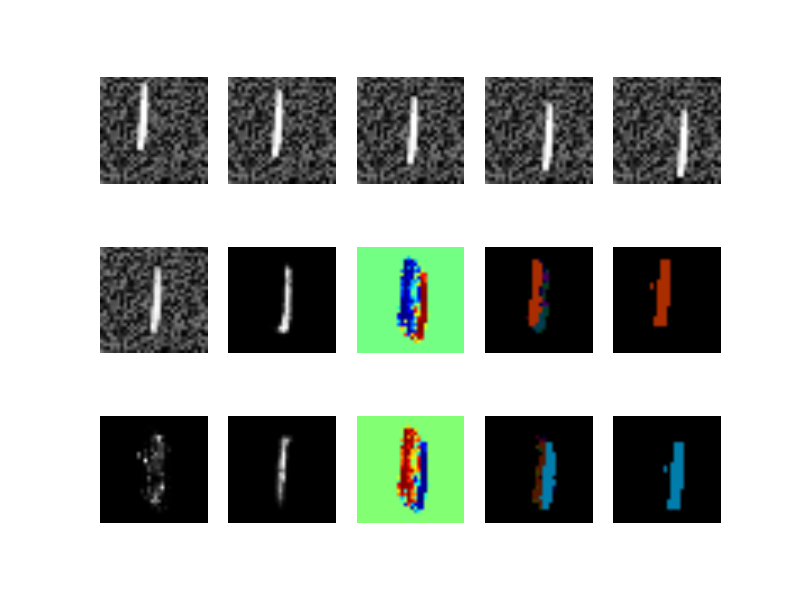
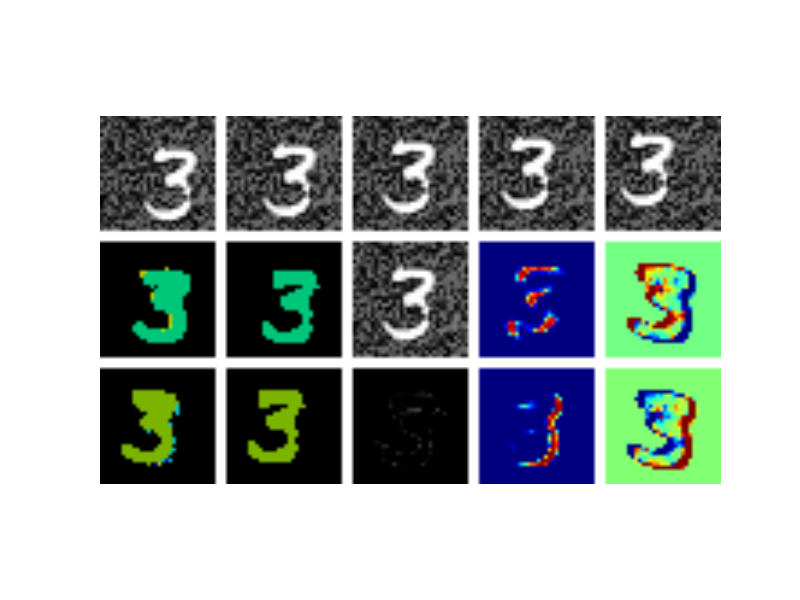
better visualization exp012-1

diff --git a/exp012-1/visualize.py b/exp012-1/visualize.py
@@ -1,0 +1,114 @@
+import numpy
+import cv2
+import matplotlib.pyplot as plt
+
+
+def visualize(im1, im2, im3, im4, im5, pred, pred_motion_f, gt_motion_f, disappear_f, attn_f, pred_motion_b, gt_motion_b, disappear_b, attn_b, m_range, m_dict, reverse_m_dict):
+    img_size = im1.size(2)
+    width, height = get_img_size(3, 5, img_size)
+    img = numpy.ones((height, width, 3))
+
+    im1 = im1[0].cpu().data.numpy().transpose(1, 2, 0).repeat(3, 2)
+    x1, y1, x2, y2 = get_img_coordinate(1, 1, img_size)
+    img[y1:y2, x1:x2, :] = im1
+
+    im2 = im2[0].cpu().data.numpy().transpose(1, 2, 0).repeat(3, 2)
+    x1, y1, x2, y2 = get_img_coordinate(1, 2, img_size)
+    img[y1:y2, x1:x2, :] = im2
+
+    im3 = im3[0].cpu().data.numpy().transpose(1, 2, 0).repeat(3, 2)
+    x1, y1, x2, y2 = get_img_coordinate(1, 3, img_size)
+    img[y1:y2, x1:x2, :] = im3
+
+    im4 = im4[0].cpu().data.numpy().transpose(1, 2, 0).repeat(3, 2)
+    x1, y1, x2, y2 = get_img_coordinate(1, 4, img_size)
+    img[y1:y2, x1:x2, :] = im4
+
+    im5 = im5[0].cpu().data.numpy().transpose(1, 2, 0).repeat(3, 2)
+    x1, y1, x2, y2 = get_img_coordinate(1, 5, img_size)
+    img[y1:y2, x1:x2, :] = im5
+
+    gt_motion = label2flow(gt_motion_f[0].cpu().data.numpy().squeeze(), m_range, reverse_m_dict)
+    x1, y1, x2, y2 = get_img_coordinate(2, 2, img_size)
+    img[y1:y2, x1:x2, :] = gt_motion
+
+    pred = pred[0].cpu().data.numpy().transpose(1, 2, 0).repeat(3, 2)
+    pred[pred > 1] = 1
+    pred[pred < 0] = 0
+    x1, y1, x2, y2 = get_img_coordinate(2, 3, img_size)
+    img[y1:y2, x1:x2, :] = pred
+
+    im_diff = numpy.abs(pred - im3)
+    x1, y1, x2, y2 = get_img_coordinate(3, 3, img_size)
+    img[y1:y2, x1:x2, :] = im_diff
+
+    disappear = disappear_f[0].cpu().data.numpy().squeeze()
+    cmap = plt.get_cmap('jet')
+    disappear = cmap(disappear)[:, :, 0:3]
+    x1, y1, x2, y2 = get_img_coordinate(2, 4, img_size)
+    img[y1:y2, x1:x2, :] = disappear
+
+    attn = attn_f[0].cpu().data.numpy().squeeze()
+    cmap = plt.get_cmap('jet')
+    attn = cmap(attn)[:, :, 0:3]
+    x1, y1, x2, y2 = get_img_coordinate(2, 5, img_size)
+    img[y1:y2, x1:x2, :] = attn
+
+    pred_motion = label2flow(pred_motion_f[0].cpu().data.numpy().squeeze(), m_range, reverse_m_dict)
+    x1, y1, x2, y2 = get_img_coordinate(2, 1, img_size)
+    img[y1:y2, x1:x2, :] = pred_motion
+
+    gt_motion = label2flow(gt_motion_b[0].cpu().data.numpy().squeeze(), m_range, reverse_m_dict)
+    x1, y1, x2, y2 = get_img_coordinate(3, 2, img_size)
+    img[y1:y2, x1:x2, :] = gt_motion
+
+    disappear = disappear_b[0].cpu().data.numpy().squeeze()
+    cmap = plt.get_cmap('jet')
+    disappear = cmap(disappear)[:, :, 0:3]
+    x1, y1, x2, y2 = get_img_coordinate(3, 4, img_size)
+    img[y1:y2, x1:x2, :] = disappear
+
+    attn = attn_b[0].cpu().data.numpy().squeeze()
+    cmap = plt.get_cmap('jet')
+    attn = cmap(attn)[:, :, 0:3]
+    x1, y1, x2, y2 = get_img_coordinate(3, 5, img_size)
+    img[y1:y2, x1:x2, :] = attn
+
+    pred_motion = label2flow(pred_motion_b[0].cpu().data.numpy().squeeze(), m_range, reverse_m_dict)
+    x1, y1, x2, y2 = get_img_coordinate(3, 1, img_size)
+    img[y1:y2, x1:x2, :] = pred_motion
+
+    plt.figure(1)
+    plt.imshow(img)
+    plt.axis('off')
+    plt.show()
+
+
+def get_img_size(n_row, n_col, img_size):
+    height = n_row * img_size + (n_row - 1) * int(img_size/10)
+    width = n_col * img_size + (n_col - 1) * int(img_size/10)
+    return width, height
+
+
+def get_img_coordinate(row, col, img_size):
+    y1 = (row - 1) * img_size + (row - 1) * int(img_size/10)
+    y2 = y1 + img_size
+    x1 = (col - 1) * img_size + (col - 1) * int(img_size/10)
+    x2 = x1 + img_size
+    return x1, y1, x2, y2
+
+
+def label2flow(motion_label, m_range, reverse_m_dict):
+    motion = numpy.zeros((motion_label.shape[0], motion_label.shape[1], 2))
+    for i in range(motion_label.shape[0]):
+        for j in range(motion_label.shape[1]):
+            motion[i, j, :] = numpy.asarray(reverse_m_dict[motion_label[i, j]])
+    mag, ang = cv2.cartToPolar(motion[..., 0], motion[..., 1])
+    hsv = numpy.zeros((motion.shape[0], motion.shape[1], 3), dtype=float)
+    hsv[..., 0] = ang * 180 / numpy.pi / 2
+    hsv[..., 1] = 255
+    hsv[..., 2] = mag * 255.0 / m_range / numpy.sqrt(2)
+    # hsv[...,2] = cv2.normalize(mag,None,0,255,cv2.NORM_MINMAX)
+    rgb = cv2.cvtColor(hsv.astype(numpy.uint8), cv2.COLOR_HSV2BGR)
+    return rgb
+

diff --git a/exp012-1/main.py b/exp012-1/main.py
@@ -1,17 +1,16 @@
 import os
 import numpy
-import cv2
 import logging
 import torch
 import torch.nn as nn
 import torch.optim as optim
 from torch.autograd import Variable
 import torch.nn.functional as F
-import matplotlib.pyplot as plt
 
 from learning_args import parse_args
 from data import generate_images, motion_dict, load_mnist
 from models import FullyConvNet, FullyConvResNet, UNet, UNetBidirection
+from visualize import visualize
 logging.basicConfig(format='[%(levelname)s %(asctime)s %(filename)s:%(lineno)s] %(message)s',
                             level=logging.INFO)
 
@@ -66,79 +65,6 @@ def train_supervised(args, model, images, m_dict, reverse_m_dict, m_kernel):
             logging.info('epoch %d, testing', epoch)
             best_test_acc = validate(args, model, images, m_dict, reverse_m_dict, m_kernel, best_test_acc)
     return model
-
-
-def visualize(im1, im2, im3, im4, im5, pred, pred_motion_f, gt_motion_f, disappear_f, attn_f, pred_motion_b, gt_motion_b, disappear_b, attn_b, m_range, m_dict, reverse_m_dict):
-    plt.figure(1)
-    plt.subplot(3,5,1)
-    plt.imshow(im1[0].cpu().data.numpy().squeeze(), cmap='gray')
-    plt.axis('off')
-    plt.subplot(3,5,2)
-    plt.imshow(im2[0].cpu().data.numpy().squeeze(), cmap='gray')
-    plt.axis('off')
-    plt.subplot(3,5,3)
-    plt.imshow(im3[0].cpu().data.numpy().squeeze(), cmap='gray')
-    plt.axis('off')
-    plt.subplot(3,5,4)
-    plt.imshow(im4[0].cpu().data.numpy().squeeze(), cmap='gray')
-    plt.axis('off')
-    plt.subplot(3,5,5)
-    plt.imshow(im5[0].cpu().data.numpy().squeeze(), cmap='gray')
-    plt.axis('off')
-    plt.subplot(3,5,6)
-    pred_im = pred[0].cpu().data.numpy().squeeze()
-    pred_im[pred_im > 1] = 1
-    pred_im[pred_im < 0] = 0
-    plt.imshow(pred_im, cmap='gray')
-    plt.axis('off')
-    plt.subplot(3,5,11)
-    im_diff = torch.abs(pred - im3)
-    plt.imshow(im_diff[0].cpu().data.numpy().squeeze(), cmap='gray')
-    plt.axis('off')
-    plt.subplot(3,5,7)
-    plt.imshow(disappear_f[0].cpu().data.numpy().squeeze(), cmap='gray')
-    plt.axis('off')
-    plt.subplot(3,5,8)
-    plt.imshow(attn_f[0].cpu().data.numpy().squeeze())
-    plt.axis('off')
-    plt.subplot(3,5,9)
-    pred_m_f = label2flow(pred_motion_f[0].cpu().data.numpy().squeeze(), m_range, reverse_m_dict)
-    plt.imshow(pred_m_f)
-    plt.axis('off')
-    plt.subplot(3,5,10)
-    gt_m_f = label2flow(gt_motion_f[0].cpu().data.numpy().squeeze(), m_range, reverse_m_dict)
-    plt.imshow(gt_m_f)
-    plt.axis('off')
-    plt.subplot(3,5,12)
-    plt.imshow(disappear_b[0].cpu().data.numpy().squeeze(), cmap='gray')
-    plt.axis('off')
-    plt.subplot(3,5,13)
-    plt.imshow(attn_b[0].cpu().data.numpy().squeeze())
-    plt.axis('off')
-    plt.subplot(3,5,14)
-    pred_m_b = label2flow(pred_motion_b[0].cpu().data.numpy().squeeze(), m_range, reverse_m_dict)
-    plt.imshow(pred_m_b)
-    plt.axis('off')
-    plt.subplot(3,5,15)
-    gt_m_b = label2flow(gt_motion_b[0].cpu().data.numpy().squeeze(), m_range, reverse_m_dict)
-    plt.imshow(gt_m_b)
-    plt.axis('off')
-    plt.show()
-
-
-def label2flow(motion_label, m_range, reverse_m_dict):
-    motion = numpy.zeros((motion_label.shape[0], motion_label.shape[1], 2))
-    for i in range(motion_label.shape[0]):
-        for j in range(motion_label.shape[1]):
-            motion[i, j, :] = numpy.asarray(reverse_m_dict[motion_label[i, j]])
-    mag, ang = cv2.cartToPolar(motion[..., 0], motion[..., 1])
-    hsv = numpy.zeros((motion.shape[0], motion.shape[1], 3), dtype=float)
-    hsv[..., 0] = ang * 180 / numpy.pi / 2
-    hsv[..., 1] = 255
-    hsv[..., 2] = mag * 255.0 / m_range / numpy.sqrt(2)
-    # hsv[...,2] = cv2.normalize(mag,None,0,255,cv2.NORM_MINMAX)
-    rgb = cv2.cvtColor(hsv.astype(numpy.uint8), cv2.COLOR_HSV2BGR)
-    return rgb
 
 
 def test_unsupervised(args, model, images, m_dict, reverse_m_dict, m_kernel):
